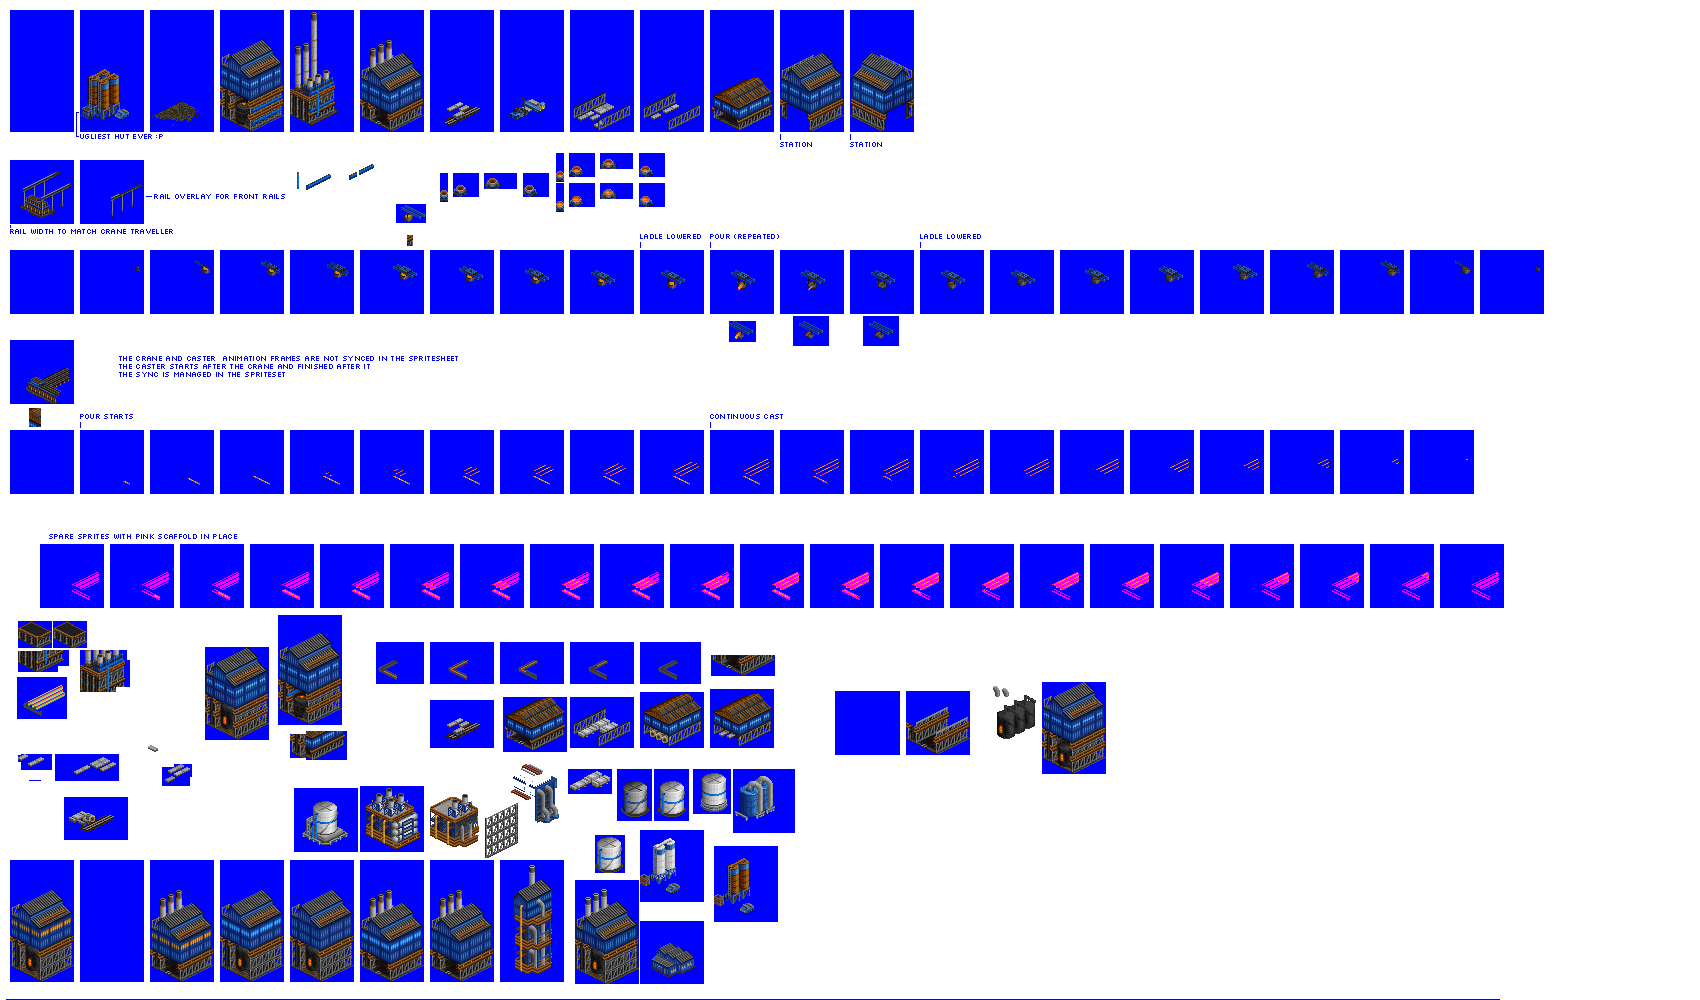
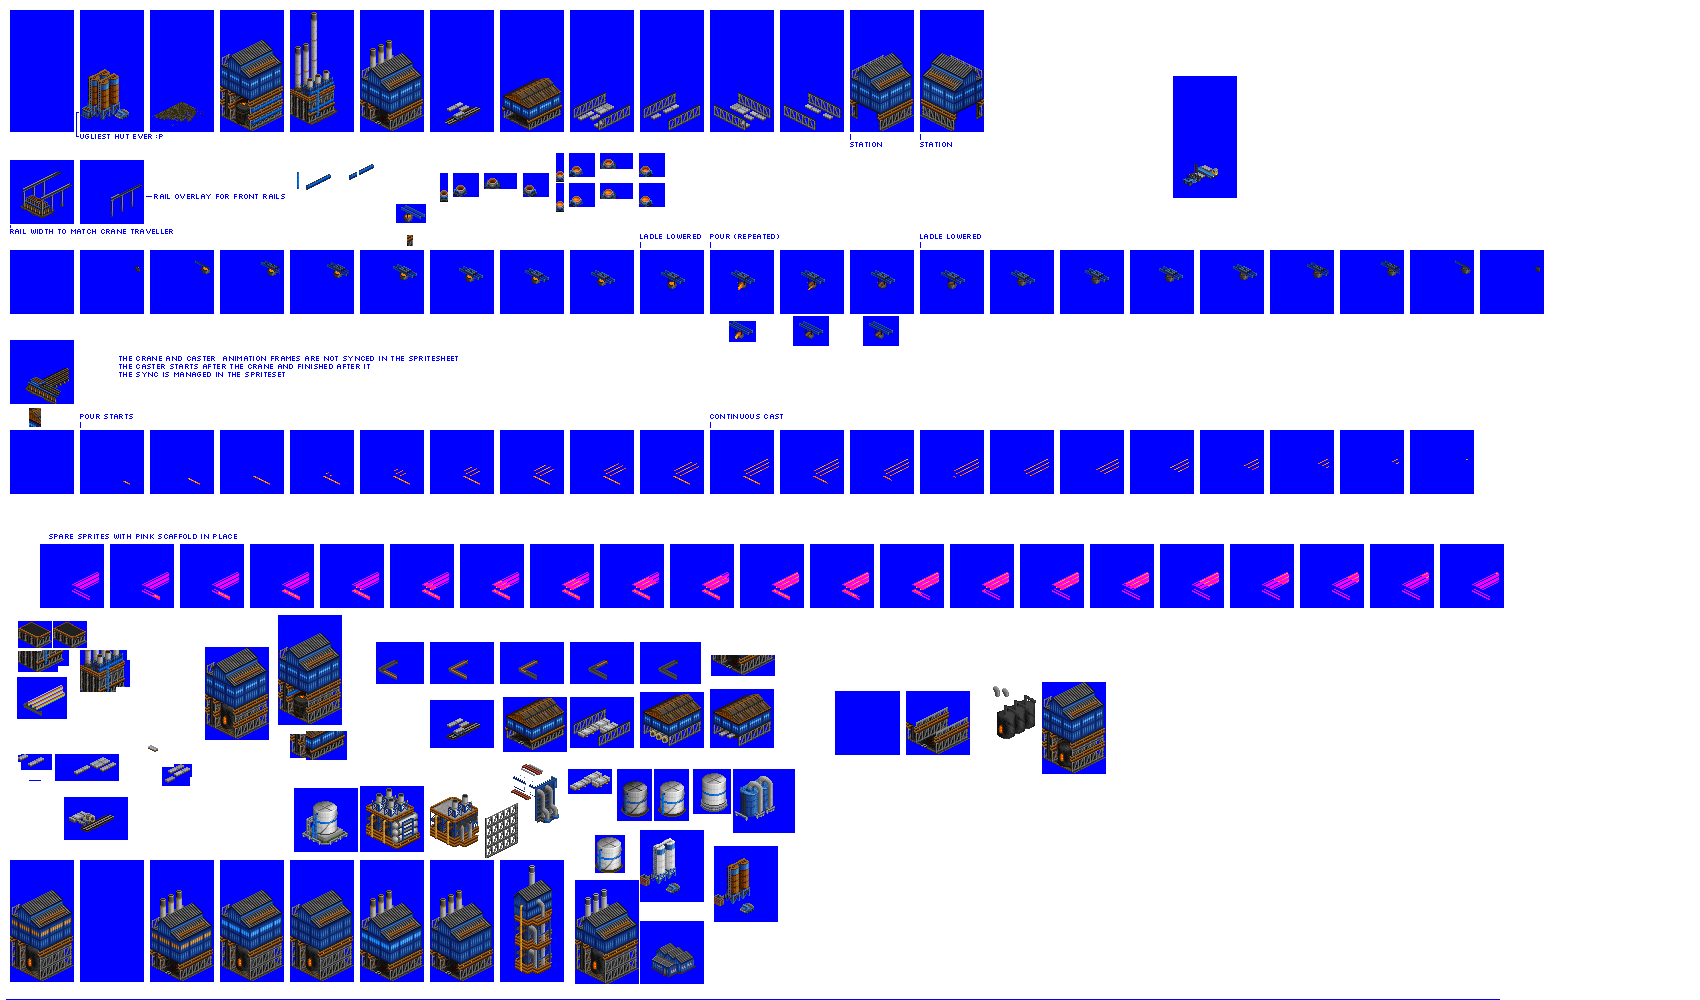
Change: add more objects to Basic Oxygen Furnace

Changed region(s): [[0.4053, 0.0, 0.5924, 0.155], [0.6859, 0.062, 0.7482, 0.217], [0.2806, 0.062, 0.3429, 0.124]]

diff --git a/src/industries/basic_oxygen_furnace.py b/src/industries/basic_oxygen_furnace.py
@@ -76,11 +76,23 @@ spriteset_air_plant = industry.add_spriteset(
 spriteset_caster = industry.add_spriteset(
     sprites=[(360, 10, 64, 122, -31, -90)],
 )
-spriteset_metal_1 = industry.add_spriteset(
+spriteset_metal_with_small_train_car_1 = industry.add_spriteset(
     sprites=[(430, 10, 64, 122, -31, -90)],
 )
 spriteset_shed = industry.add_spriteset(
+    sprites=[(500, 10, 64, 122, -31, -90)],
+)
+spriteset_metal_1 = industry.add_spriteset(
+    sprites=[(570, 10, 64, 122, -31, -90)],
+)
+spriteset_metal_2 = industry.add_spriteset(
+    sprites=[(640, 10, 64, 122, -31, -90)],
+)
+spriteset_metal_3 = industry.add_spriteset(
     sprites=[(710, 10, 64, 122, -31, -90)],
+)
+spriteset_metal_4 = industry.add_spriteset(
+    sprites=[(780, 10, 64, 122, -31, -90)],
 )
 spriteset_caster_crane_animated = industry.add_spriteset(
     sprites=[
@@ -255,11 +267,11 @@ industry.add_spritelayout(
     add_to_object_num=2,
 )
 industry.add_spritelayout(
-    id="basic_oxygen_furnace_spritelayout_metal_1",
+    id="basic_oxygen_furnace_spritelayout_metal_with_small_train_car_1",
     tile="basic_oxygen_furnace_tile_1",
     ground_sprite=spriteset_ground,
     ground_overlay=spriteset_ground_overlay,
-    building_sprites=[spriteset_metal_1],
+    building_sprites=[spriteset_metal_with_small_train_car_1],
     fences=["nw", "ne", "se", "sw"],
     add_to_object_num=6,
 )
@@ -273,6 +285,42 @@ industry.add_spritelayout(
     add_to_object_num=5,
 )
 industry.add_spritelayout(
+    id="basic_oxygen_furnace_spritelayout_metal_1",
+    tile="basic_oxygen_furnace_tile_1",
+    ground_sprite=spriteset_ground,
+    ground_overlay=spriteset_ground_overlay,
+    building_sprites=[spriteset_metal_1],
+    fences=["nw", "ne", "se", "sw"],
+    add_to_object_num=7,
+)
+industry.add_spritelayout(
+    id="basic_oxygen_furnace_spritelayout_metal_2",
+    tile="basic_oxygen_furnace_tile_1",
+    ground_sprite=spriteset_ground,
+    ground_overlay=spriteset_ground_overlay,
+    building_sprites=[spriteset_metal_2],
+    fences=["nw", "ne", "se", "sw"],
+    add_to_object_num=8,
+)
+industry.add_spritelayout(
+    id="basic_oxygen_furnace_spritelayout_metal_3",
+    tile="basic_oxygen_furnace_tile_1",
+    ground_sprite=spriteset_ground,
+    ground_overlay=spriteset_ground_overlay,
+    building_sprites=[spriteset_metal_3],
+    fences=["nw", "ne", "se", "sw"],
+    add_to_object_num=9,
+)
+industry.add_spritelayout(
+    id="basic_oxygen_furnace_spritelayout_metal_4",
+    tile="basic_oxygen_furnace_tile_1",
+    ground_sprite=spriteset_ground,
+    ground_overlay=spriteset_ground_overlay,
+    building_sprites=[spriteset_metal_4],
+    fences=["nw", "ne", "se", "sw"],
+    add_to_object_num=10,
+)
+industry.add_spritelayout(
     id="basic_oxygen_furnace_spritelayout_animated_casting_front_part",
     tile="basic_oxygen_furnace_tile_2",
     ground_sprite=spriteset_ground_tile_animated_crane,
@@ -284,6 +332,7 @@ industry.add_spritelayout(
     ],
     fences=["nw", "ne", "se", "sw"],
     perma_fences=["sw"],
+    # no animated object; fails on mismatched spritesets, TMWFTLB as of August 2023
 )
 industry.add_spritelayout(
     id="basic_oxygen_furnace_spritelayout_animated_casting_rear_part",
@@ -296,6 +345,7 @@ industry.add_spritelayout(
     ],
     fences=["nw", "ne", "se", "sw"],
     perma_fences=["sw"],
+    # no animated object; fails on mismatched spritesets, TMWFTLB as of August 2023
 )
 
 # this industry needs outpost layout as there are lots of cargos
@@ -326,7 +376,7 @@ industry.add_industry_outpost_layout(
         (
             2,
             0,
-            "basic_oxygen_furnace_spritelayout_metal_1",
+            "basic_oxygen_furnace_spritelayout_metal_with_small_train_car_1",
         ),
         (
             2,
